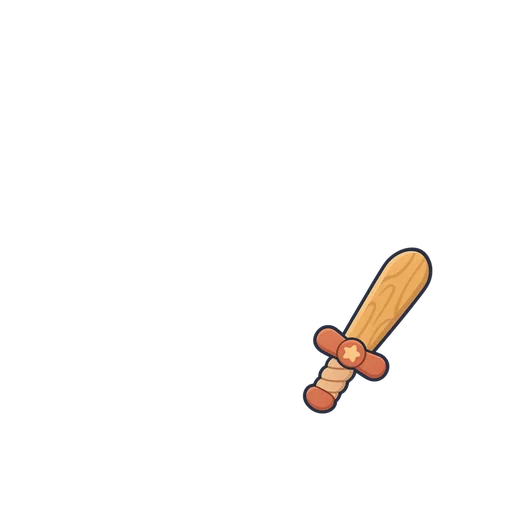
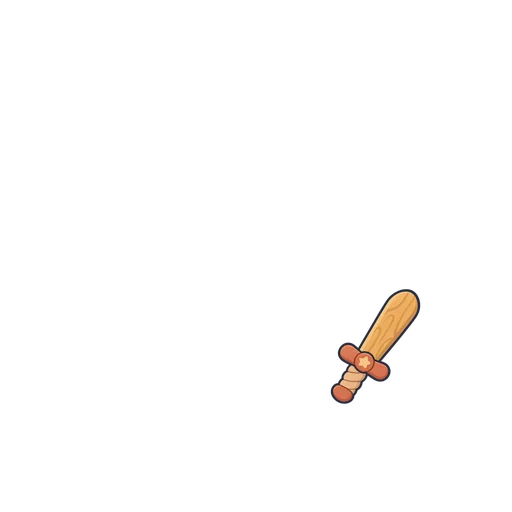
Moka: ayak ayrı katman, el eşyaları tutuş noktasına hizalı ve ölçekli, lint düzeltmesi
Claude-Session: https://claude.ai/code/session_01SaDd7aC5xmSfZck5fwqD36

Changed region(s): [[0.5938, 0.4688, 0.8438, 0.8125]]

diff --git a/src/components/MokaRig.tsx b/src/components/MokaRig.tsx
@@ -27,6 +27,8 @@ const rig = (fur: string | null | undefined): Record<'govde' | 'kuyruk' | 'bas' 
   return f || BASE_RIG;
 };
 
+// Ayaklar kıyafetin önünde kalsın diye ayrı katman (gövdeden kopya, kahverengi: kürk tonundan etkilenmez).
+const AYAK: ImageSourcePropType = require('../../assets/moka/rig/ayak.webp');
 const BASE_RIG = {
   govde: require('../../assets/moka/rig/govde.webp'),
   kuyruk: require('../../assets/moka/rig/kuyruk.webp'),
@@ -100,6 +102,7 @@ export function RigBody({ size, fur, worn, sway, lag, wing, tail, blink, look, m
       <Pivot s={size} p={TAIL} rotate={deg(tail, 3)}><Layer src={L.kuyruk} s={size} /></Pivot>
       <Layer src={L.govde} s={size} />
       {item('govde')}
+      <Layer src={AYAK} s={size} />
       <Pivot s={size} p={NECK} rotate={deg(sway, 2.2)} ty={headLate}>
         <Layer src={L.bas} s={size} />
         <Pivot s={size} p={EYES} scaleY={blink} tx={eyeX}><Layer src={L.gozler} s={size} /></Pivot>

diff --git a/src/components/RoomMoka.tsx b/src/components/RoomMoka.tsx
@@ -220,7 +220,7 @@ export function RoomMoka({ size, fur, mood, talking, thinking, celebrate = 0 }: 
 
   // Nefes: her nefes biraz farklı uzunlukta; arada derin iç çekiş. Uykuda daha yavaş ve derin.
   const sleepRef = useRef(sleeping);
-  sleepRef.current = sleeping;
+  useEffect(() => { sleepRef.current = sleeping; }, [sleeping]);
   useEffect(() => {
     if (!run) return;
     let dead = false;

diff --git a/scripts/make-moka-rig.py b/scripts/make-moka-rig.py
@@ -38,10 +38,14 @@ def esya():
         if name.startswith('el_'):
             bb = im.getchannel('A').point(lambda v: 255 if v > 20 else 0).getbbox()
             if bb:
-                k = 1.2; cx, cy = (bb[0] + bb[2]) / 2, (bb[1] + bb[3]) / 2
+                cx, cy = (bb[0] + bb[2]) / 2, (bb[1] + bb[3]) / 2
+                # Büyük kenar 512 ölçeğinde ~115 px olacak şekilde ölçekle (kamera, megafon taşmasın; küçükler okunsun)
+                k = min(1.7, max(0.5, 115 * W / 512 / max(bb[2] - bb[0], bb[3] - bb[1])))
                 big = im.resize((int(W * k), int(W * k)), Image.LANCZOS)
+                # Kutu merkezi kanadın alt-dış kısmına (tutuş noktası): 512 ölçeğinde (376, 347)
+                gx, gy = 376 * W / 512, 347 * W / 512
                 canvas = Image.new('RGBA', (W, W), (0, 0, 0, 0))
-                canvas.alpha_composite(big, (int(cx - cx * k), int(cy - cy * k)))
+                canvas.alpha_composite(big, (int(gx - cx * k), int(gy - cy * k)))
                 im = canvas
         save(im, f'{root}/assets/moka/esya/{name}.webp', 85); n += 1
     print('eşya', n)
